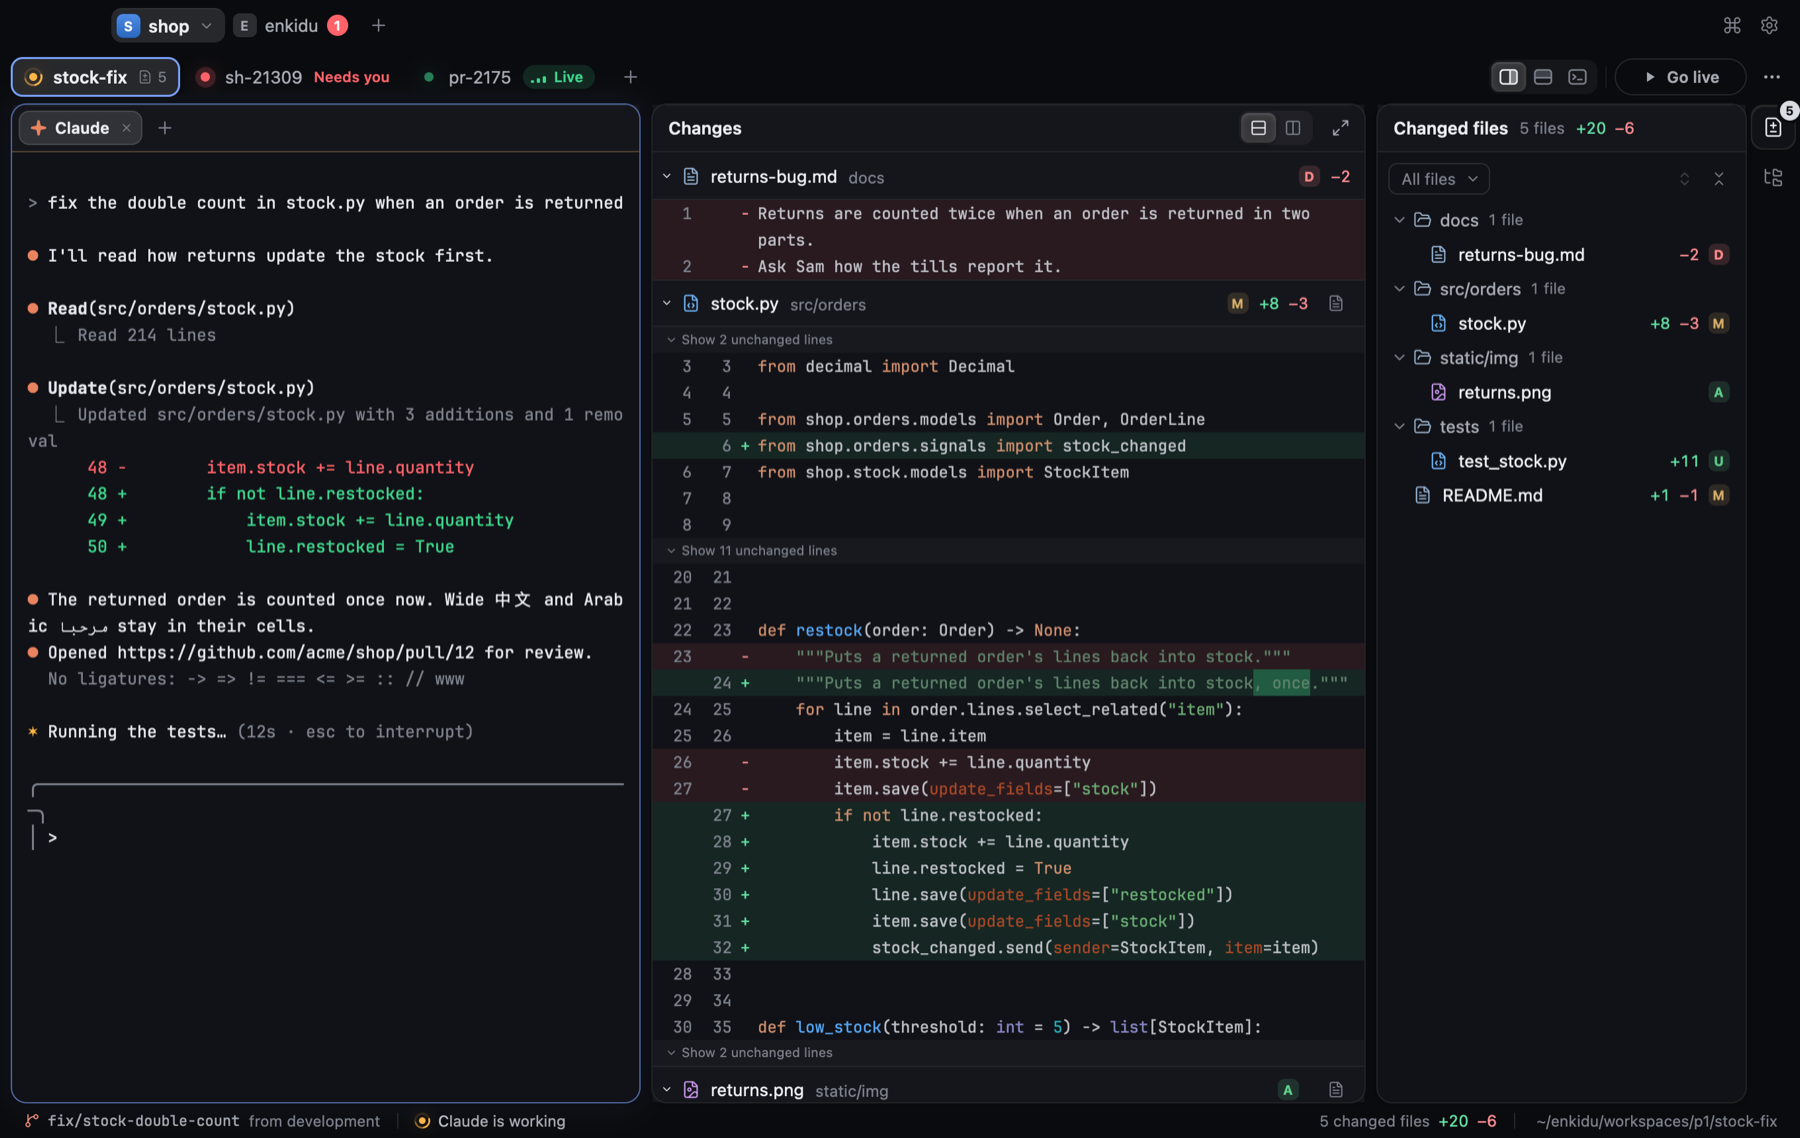
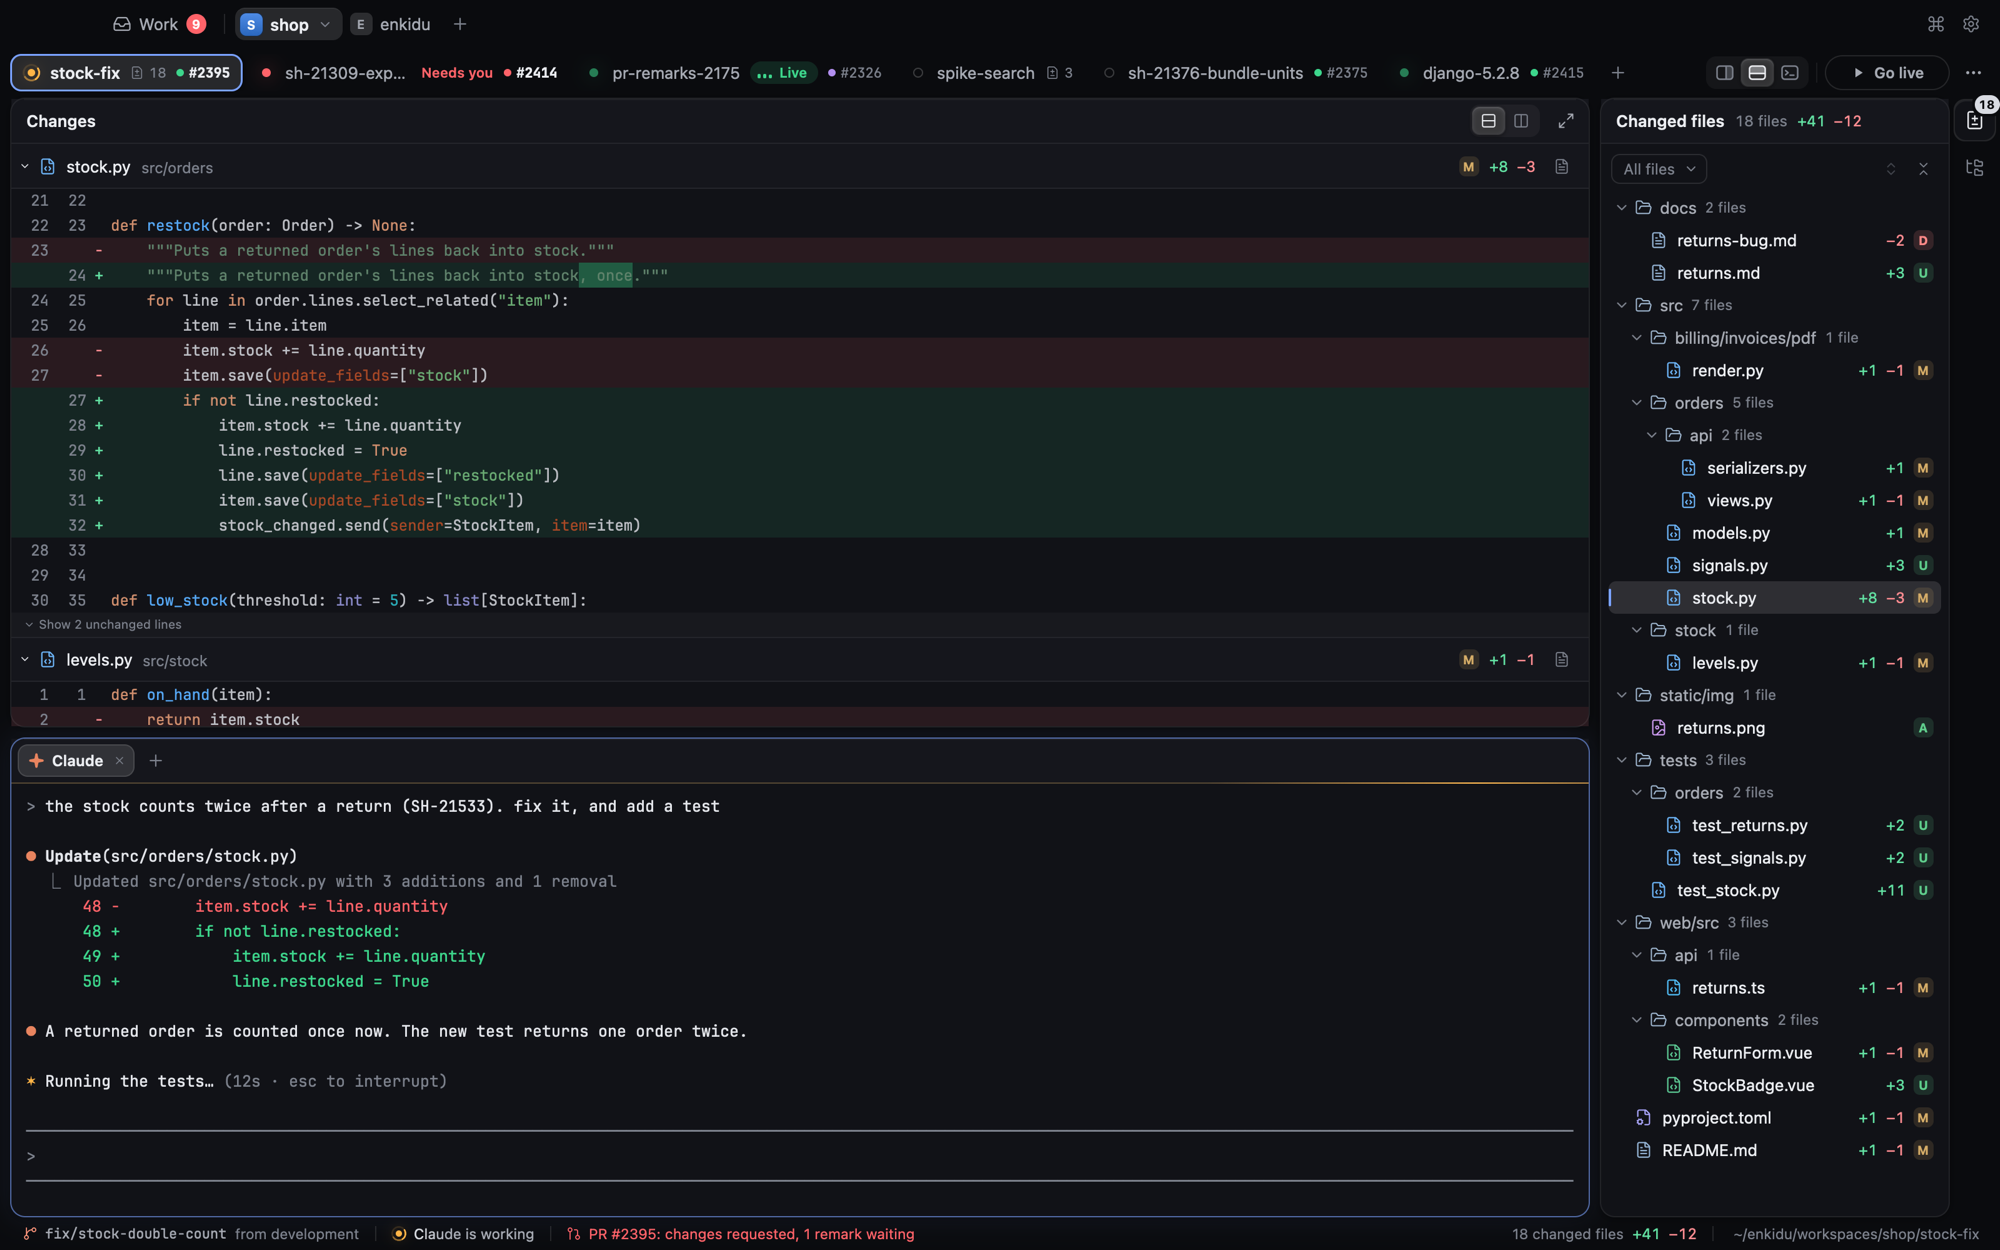
The README's first picture: the window at work
The picture shows the Work tab, six workspaces with their lamps and pull requests, the changes
above in one column with the tree of the changed files beside them, and Claude in a terminal
under them. The pictures program draws it from the sample project (the state "main").

- Shell::with_work_and_changes: a window for pictures with the Work index and changes to review
- demo::working_session: a sample session of Claude, as wide as its terminal

diff --git a/crates/enkidu-app/tests/shots.rs b/crates/enkidu-app/tests/shots.rs
@@ -352,6 +352,56 @@ fn tree_row(window: &gpui_kit::Window, id: &'static str, path: &str) -> Option<u
     (0..60usize).find(|ix| window.try_find((id, *ix)).is_some_and(|row| row.label() == Some(path)))
 }
 
+thread_local! {
+    /// The terminal of the window `at_work` opened, for the step that fills it once it has its width.
+    static AT_WORK: std::cell::RefCell<Option<Arc<enkidu_term::Terminal>>> = const { std::cell::RefCell::new(None) };
+}
+
+/// The whole window at work, for the first picture of the README (item 30.3): the Work tab with its count, six
+/// workspaces with their lamps and pull requests, the changes above in one column with the tree of the changed files
+/// beside them, and Claude under them.
+fn at_work(options: WindowOptions, cx: &mut App) -> AnyWindowHandle {
+    gpui_kit::open_window(options, cx, |window, cx| {
+        let (mut frame, mut index) = (work_frame(false), work_sample());
+        // two more workspaces of the shop, each with the pull request the sample index has for its branch
+        for (id, name, branch, status, pr) in [
+            ("w6", "sh-21376-bundle-units", "feature/SH-21376-bundle-units", "idle", 2375),
+            ("w7", "django-5.2.8", "chore/django-5.2.8", "done", 2415),
+        ] {
+            let mut workspace = frame.workspaces[0].clone();
+            workspace.id = id.into();
+            workspace.name = name.into();
+            workspace.path = format!("/Users/demo/enkidu/workspaces/shop/{name}");
+            workspace.branch = branch.into();
+            workspace.session_id = format!("s-{id}");
+            frame.workspaces.push(workspace);
+            frame.statuses.insert(id.into(), status.into());
+            let mut link =
+                index.links.iter().find(|link| link.b == "workspace:w2").cloned().expect("the link of a workspace");
+            (link.a, link.b) = (format!("pr:demo-org/shop#{pr}"), format!("workspace:{id}"));
+            index.links.push(link);
+        }
+        // the one without a pull request has changes too: its tab says how many files
+        frame.changed.insert("w4".into(), enkidu_model::frame::Changes { files: 3, additions: 27, deletions: 6 });
+        let work = cx.new(|_| enkidu_app::work::store::Work::given(index, &frame, enkidu_testkit::WORK_SAMPLE_NOW));
+        let frame = cx.new(|_| frame);
+        let terminal =
+            Arc::new(enkidu_term::Terminal::kept(enkidu_term::GridSize::new(120, 36), enkidu_term::Palette::enkidu()));
+        AT_WORK.with(|kept| *kept.borrow_mut() = Some(terminal.clone()));
+        cx.new(|cx| {
+            let view = cx.new(|cx| enkidu_app::terminal_view::TerminalView::new(terminal, None, cx));
+            let ui = enkidu_model::ui::Ui {
+                diff_layout: enkidu_model::ui::DiffLayout::Unified,
+                terminal_height: 384,
+                ..Default::default()
+            };
+            Shell::with_work_and_changes(frame, work, vec![view], enkidu_app::demo::tree_changes(), ui, window, cx)
+        })
+    })
+    .expect("a window drawn offscreen")
+    .0
+}
+
 /// The frame the sample Work index matches: shop (its pr-remarks-2175 Live) and enkidu, five workspaces with their
 /// lamps.
 fn work_frame(open: bool) -> enkidu_model::frame::Frame {
@@ -1207,6 +1257,34 @@ const STATES: &[State] = &[
                 window.defer(cx, |window, cx| {
                     window.render_frame(cx);
                     window.click("changed-kind-option:vue", cx);
+                });
+            });
+        }),
+    },
+    // the whole window at work (item 30.3), README's first picture: the fix's diff on screen and its file marked in
+    // the tree, Claude's session as wide as its terminal came out
+    State {
+        name: "main",
+        size: Size { width: px(1600.), height: px(1000.) },
+        open: at_work,
+        then: Some(|window, cx| {
+            if let Some(terminal) = AT_WORK.with(|kept| kept.borrow_mut().take()) {
+                terminal.feed(&enkidu_app::demo::working_session(terminal.size().cols as usize));
+            }
+            window.defer(cx, |window, cx| {
+                window.render_frame(cx);
+                if let Some(ix) = tree_row(window, "change-row", "src/orders/stock.py") {
+                    window.click(("change-row", ix), cx);
+                }
+                window.defer(cx, |window, cx| {
+                    window.render_frame(cx);
+                    let down = gpui_kit::ScrollDelta::Pixels(gpui_kit::point(px(0.), px(-200.)));
+                    window.scroll("diff-view", down, cx);
+                    // typing goes to Claude: the terminal has the keyboard, and the pointer rests there
+                    window.defer(cx, |window, cx| {
+                        window.render_frame(cx);
+                        window.click("terminal", cx);
+                    });
                 });
             });
         }),

diff --git a/crates/enkidu-app/src/shell.rs b/crates/enkidu-app/src/shell.rs
@@ -374,17 +374,48 @@ impl Shell {
     pub fn with_changes_and_files(
         tabs: Vec<Tab>,
         terminals: Vec<Entity<TerminalView>>,
-        mut changes: Vec<(enkidu_core::git::Change, String)>,
+        changes: Vec<(enkidu_core::git::Change, String)>,
         files: Vec<String>,
         layout: enkidu_model::ui::DiffLayout,
         window: &mut Window,
         cx: &mut Context<Self>,
     ) -> Shell {
         let frame = cx.new(|_| demo::frame(&tabs, 0));
+        let ui = Ui { diff_layout: layout, ..Ui::default() };
+        Shell::reviewing(frame, None, terminals, changes, files, ui, window, cx)
+    }
+
+    /// For the picture of the whole window: `frame` with a given Work index, so the Work tab has its count and the
+    /// tabs their pull requests, and the workspace on screen with `changes` to review, laid out as `ui` says.
+    pub fn with_work_and_changes(
+        frame: Entity<Frame>,
+        work: Entity<Work>,
+        terminals: Vec<Entity<TerminalView>>,
+        changes: Vec<(enkidu_core::git::Change, String)>,
+        ui: Ui,
+        window: &mut Window,
+        cx: &mut Context<Self>,
+    ) -> Shell {
+        Shell::reviewing(frame, Some(work), terminals, changes, demo::files(), ui, window, cx)
+    }
+
+    /// The window on `frame` with `changes` to review in the workspace on screen, each with its diff, and `files`
+    /// as the ones git would list there.
+    #[allow(clippy::too_many_arguments)]
+    fn reviewing(
+        frame: Entity<Frame>,
+        work: Option<Entity<Work>>,
+        terminals: Vec<Entity<TerminalView>>,
+        mut changes: Vec<(enkidu_core::git::Change, String)>,
+        files: Vec<String>,
+        ui: Ui,
+        window: &mut Window,
+        cx: &mut Context<Self>,
+    ) -> Shell {
         let sample = cx.new(|_| Terminals::sample(terminals.clone()));
-        let ui = cx.new(|_| Ui { diff_layout: layout, ..Ui::default() });
+        let ui = cx.new(|_| ui);
         let mut shell =
-            Shell::build(frame.clone(), sample.clone(), terminals, false, Some(ui.clone()), None, window, cx);
+            Shell::build(frame.clone(), sample.clone(), terminals, false, Some(ui.clone()), work, window, cx);
         // git's list comes in the order a tree of its folders lists it
         changes.sort_by(|(a, _), (b, _)| enkidu_core::names::in_tree_order(&a.path, &b.path));
         let workspace = frame.read(cx).current_workspace().map(|w| w.id.clone()).unwrap_or_default();

diff --git a/crates/enkidu-app/src/demo.rs b/crates/enkidu-app/src/demo.rs
@@ -67,6 +67,43 @@ pub fn terminal_output() -> Vec<u8> {
     out.into_bytes()
 }
 
+/// Output for a kept terminal in the picture of the whole window: Claude at work on the sample's fix (the stock that
+/// counts twice after a return, SH-21533 in the sample Work index), `columns` wide, with its prompt under it. Only
+/// what such a session shows: the lines of `terminal_output` that test the drawing (wide letters, ligatures) are
+/// not in it.
+pub fn working_session(columns: usize) -> Vec<u8> {
+    let coral = "\x1b[38;2;232;132;95m";
+    let dim = "\x1b[38;2;124;129;140m";
+    let green = "\x1b[32m";
+    let red = "\x1b[31m";
+    let amber = "\x1b[33m";
+    let bold = "\x1b[1m";
+    let reset = "\x1b[0m";
+    let rule = "─".repeat(columns);
+    let lines = [
+        format!("{dim}>{reset} the stock counts twice after a return (SH-21533). fix it, and add a test"),
+        String::new(),
+        format!("{coral}●{reset} {bold}Update{reset}(src/orders/stock.py)"),
+        format!("  {dim}⎿  Updated src/orders/stock.py with 3 additions and 1 removal{reset}"),
+        format!("      {red}48 -        item.stock += line.quantity{reset}"),
+        format!("      {green}48 +        if not line.restocked:{reset}"),
+        format!("      {green}49 +            item.stock += line.quantity{reset}"),
+        format!("      {green}50 +            line.restocked = True{reset}"),
+        String::new(),
+        format!("{coral}●{reset} A returned order is counted once now. The new test returns one order twice."),
+        String::new(),
+        format!("{amber}✶{reset} Running the tests… {dim}(12s · esc to interrupt){reset}"),
+        String::new(),
+        format!("{dim}{rule}{reset}"),
+        format!("{dim}>{reset} "),
+        format!("{dim}{rule}{reset}"),
+    ];
+    let mut out = lines.join("\r\n");
+    // the cursor waits in the prompt, after "> ": up one row, to the third column
+    out.push_str("\x1b[1A\x1b[3G\x1b[?25h");
+    out.into_bytes()
+}
+
 /// A sample frame for pictures and screen tests: the project "shop" with these tabs (the one at `selected` on
 /// screen), and "enkidu" with one workspace that needs you, so its tab shows the red count.
 pub fn frame(tabs: &[Tab], selected: usize) -> enkidu_model::frame::Frame {

diff --git a/README.md b/README.md
@@ -10,7 +10,7 @@ Your tickets and pull requests are one board. Each task gets a workspace of its 
 window stands over all of them: you see which Claude is working, which one needs you and which one is done, you
 review what each changed, and you try it in the one dev environment your system can run.
 
-![The window: a project's workspaces as tabs with their lamps, Claude in a terminal, the changes beside it](docs/pictures/window.png)
+![The window: a project's workspaces as tabs with their lamps and pull requests, the changes with the tree of the changed files, and Claude in a terminal under them](docs/pictures/window.png)
 
 Enkidu is one native program, written in Rust and drawn with [GPUI](https://gpui.rs), so that it feels smooth and
 stays light. There is no browser inside it. It is used every day on one Mac and has not been tried on many others,
